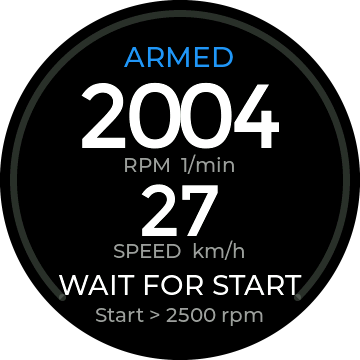
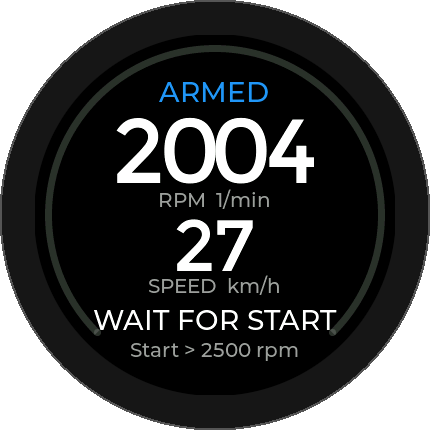
Galerie und Street Dyno mit neuen Medien ergänzen

diff --git a/en/gallery.html b/en/gallery.html
@@ -3,7 +3,7 @@
 <head>
     <meta charset="UTF-8">
     <meta name="viewport" content="width=device-width, initial-scale=1">
-    <meta name="description" content="Explore CanDisp screen layouts and see photos of the display and hardware in use.">
+    <meta name="description" content="Explore CanDisp screen layouts and see photos and video of the display in use.">
     <title>Gallery - CanDisp</title>
     <link rel="canonical" href="https://candisp.de/en/gallery.html">
     <link rel="alternate" hreflang="de" href="https://candisp.de/gallery.html">
@@ -27,8 +27,8 @@
     <h2>Screen layouts</h2>
 
     <p>
-        CanDisp can show individual readings or combine several on one screen. These unedited
-        screenshots come directly from the device's frame buffer.
+        CanDisp can show individual readings or combine several on one screen.
+        Gauge 8 shows the four wheel speeds on four individual scales. Gauge 9 uses two side scales.
     </p>
 
 
@@ -52,6 +52,12 @@
 
         <img src="../images/gallery/CanDisp_Gauge4.png"
              alt="CanDisp screen layout 6">
+
+        <img src="../images/gallery/CanDisp_Gauge8.png" width="430" height="430" loading="lazy"
+             alt="Four wheel speeds on four individual scales">
+
+        <img src="../images/gallery/CanDisp_Gauge9.png" width="430" height="430" loading="lazy"
+             alt="Four wheel speeds on two side scales">
 
         <img src="../images/gallery/CanDisp_Speedo.png"
              alt="CanDisp speedometer screen">
@@ -96,6 +102,18 @@
     </div>
     <button type="button" class="nav-btn right" aria-label="Next photo" onclick="scrollSmart(this, 320)">❯</button>
     </div>
+
+    <section class="gallery-video">
+        <div>
+            <h3>CanDisp on the road</h3>
+            <p>CanDisp first shows requested and measured air mass, followed by the speeds of all four wheels.</p>
+            <p><a href="https://www.youtube.com/shorts/NH-GL6S2dgY">Watch on YouTube</a></p>
+        </div>
+        <iframe class="guide-video" width="300" height="533" src="https://www.youtube-nocookie.com/embed/NH-GL6S2dgY"
+                title="CanDisp on the road" loading="lazy"
+                allow="encrypted-media; picture-in-picture"
+                referrerpolicy="strict-origin-when-cross-origin" allowfullscreen></iframe>
+    </section>
 
 </section>
 

diff --git a/street-dyno.html b/street-dyno.html
@@ -32,7 +32,7 @@
         <h2 id="aufzeichnung-titel">So läuft die Aufzeichnung</h2>
         <ol class="dyno-steps" role="list">
             <li>
-                <img src="images/street-dyno/armed.png" width="360" height="360"
+                <img src="images/street-dyno/armed.png" width="430" height="430"
                      alt="Runde CanDisp-Anzeige im Zustand ARMED mit dem Hinweis WAIT FOR START">
                 <div>
                     <h3>Bereit</h3>
@@ -40,7 +40,7 @@
                 </div>
             </li>
             <li>
-                <img src="images/street-dyno/recording.png" width="360" height="360"
+                <img src="images/street-dyno/recording.png" width="430" height="430"
                      alt="Runde CanDisp-Anzeige während der Aufzeichnung mit rotem REC-Status">
                 <div>
                     <h3>Aufnahme</h3>
@@ -48,11 +48,19 @@
                 </div>
             </li>
             <li>
-                <img src="images/street-dyno/finished.png" width="360" height="360"
+                <img src="images/street-dyno/post-rec.png" width="430" height="430"
+                     alt="Runde CanDisp-Anzeige im Nachlauf mit POST REC und ENDING RUN">
+                <div>
+                    <h3>Nachlauf</h3>
+                    <p>Bei anhaltend sinkender Drehzahl zeichnet CanDisp noch kurz weiter.</p>
+                </div>
+            </li>
+            <li>
+                <img src="images/street-dyno/finished.png" width="430" height="430"
                      alt="Runde CanDisp-Anzeige nach der Aufzeichnung mit FINISHED und COMPLETE">
                 <div>
                     <h3>Fertig</h3>
-                    <p>Bei anhaltend sinkender Drehzahl endet die Aufzeichnung nach einem kurzen Nachlauf.</p>
+                    <p>Die Aufzeichnung ist beendet. CanDisp zeigt den Status des Laufs.</p>
                 </div>
             </li>
         </ol>

diff --git a/en/street-dyno.html b/en/street-dyno.html
@@ -32,7 +32,7 @@
         <h2 id="recording-title">How recording works</h2>
         <ol class="dyno-steps" role="list">
             <li>
-                <img src="../images/street-dyno/armed.png" width="360" height="360"
+                <img src="../images/street-dyno/armed.png" width="430" height="430"
                      alt="Round CanDisp display showing ARMED and WAIT FOR START">
                 <div>
                     <h3>Armed</h3>
@@ -40,7 +40,7 @@
                 </div>
             </li>
             <li>
-                <img src="../images/street-dyno/recording.png" width="360" height="360"
+                <img src="../images/street-dyno/recording.png" width="430" height="430"
                      alt="Round CanDisp display recording a run with a red REC indicator">
                 <div>
                     <h3>Recording</h3>
@@ -48,11 +48,19 @@
                 </div>
             </li>
             <li>
-                <img src="../images/street-dyno/finished.png" width="360" height="360"
+                <img src="../images/street-dyno/post-rec.png" width="430" height="430"
+                     alt="Round CanDisp display showing POST REC and ENDING RUN">
+                <div>
+                    <h3>Post-run recording</h3>
+                    <p>When engine speed keeps falling, CanDisp continues recording for a short time.</p>
+                </div>
+            </li>
+            <li>
+                <img src="../images/street-dyno/finished.png" width="430" height="430"
                      alt="Round CanDisp display showing FINISHED and COMPLETE after a run">
                 <div>
                     <h3>Finished</h3>
-                    <p>When engine speed falls for a sustained period, recording ends after a short delay.</p>
+                    <p>Recording ends and CanDisp shows the run status.</p>
                 </div>
             </li>
         </ol>

diff --git a/gallery.html b/gallery.html
@@ -26,9 +26,8 @@
     <h2>Anzeige-Layouts</h2>
 
     <p>
-        CanDisp unterstützt unterschiedliche Anzeigeformen
-        für einzelne oder kombinierte Messwerte. Hier sind die 
-        ungeschönten Screenshots 1:1 aus dem Bildspeicher des Geräts ausgelesen.
+        CanDisp zeigt einzelne oder kombinierte Messwerte auf einem Bildschirm.
+        Gauge 8 zeigt die vier Radgeschwindigkeiten auf vier Einzelskalen. Gauge 9 nutzt zwei seitliche Skalen.
     </p>
 
 
@@ -52,6 +51,12 @@
 
         <img src="images/gallery/CanDisp_Gauge4.png"
              alt="CanDisp Anzeige Layout 6">
+
+        <img src="images/gallery/CanDisp_Gauge8.png" width="430" height="430" loading="lazy"
+             alt="Vier Radgeschwindigkeiten auf vier einzelnen Skalen">
+
+        <img src="images/gallery/CanDisp_Gauge9.png" width="430" height="430" loading="lazy"
+             alt="Vier Radgeschwindigkeiten auf zwei seitlichen Skalen">
 
         <img src="images/gallery/CanDisp_Speedo.png"
              alt="CanDisp Anzeige Layout Speedo">
@@ -96,6 +101,18 @@
     </div>
     <button type="button" class="nav-btn right" aria-label="Nächstes Foto" onclick="scrollSmart(this, 320)">❯</button>
     </div>
+
+    <section class="gallery-video">
+        <div>
+            <h3>CanDisp in Fahrt</h3>
+            <p>CanDisp zeigt zuerst die angeforderte und gemessene Luftmasse und danach die Geschwindigkeiten aller vier Räder.</p>
+            <p><a href="https://www.youtube.com/shorts/NH-GL6S2dgY">Auf YouTube ansehen</a></p>
+        </div>
+        <iframe class="guide-video" width="300" height="533" src="https://www.youtube-nocookie.com/embed/NH-GL6S2dgY"
+                title="CanDisp in Fahrt" loading="lazy"
+                allow="encrypted-media; picture-in-picture"
+                referrerpolicy="strict-origin-when-cross-origin" allowfullscreen></iframe>
+    </section>
 
 </section>
 

diff --git a/css/styles.css b/css/styles.css
@@ -265,6 +265,18 @@ footer {
     margin-top: 16px;
 }
 
+.gallery-video {
+    display: grid;
+    grid-template-columns: minmax(0, 1fr) minmax(0, 300px);
+    align-items: center;
+    gap: 16px 24px;
+    margin-top: 24px;
+}
+
+.gallery-video .guide-video {
+    max-width: 300px;
+}
+
 /* Galerie-Navigation */
 .nav-btn {
     position: absolute;
@@ -317,7 +329,7 @@ footer {
 
 .dyno-steps {
     display: grid;
-    grid-template-columns: repeat(3, minmax(0, 1fr));
+    grid-template-columns: repeat(4, minmax(0, 1fr));
     gap: 16px;
     padding: 0;
     list-style: none;
@@ -377,6 +389,7 @@ footer {
 }
 
 @media (max-width: 640px) {
+    .gallery-video,
     .dyno-steps,
     .dyno-comparison {
         grid-template-columns: 1fr;
